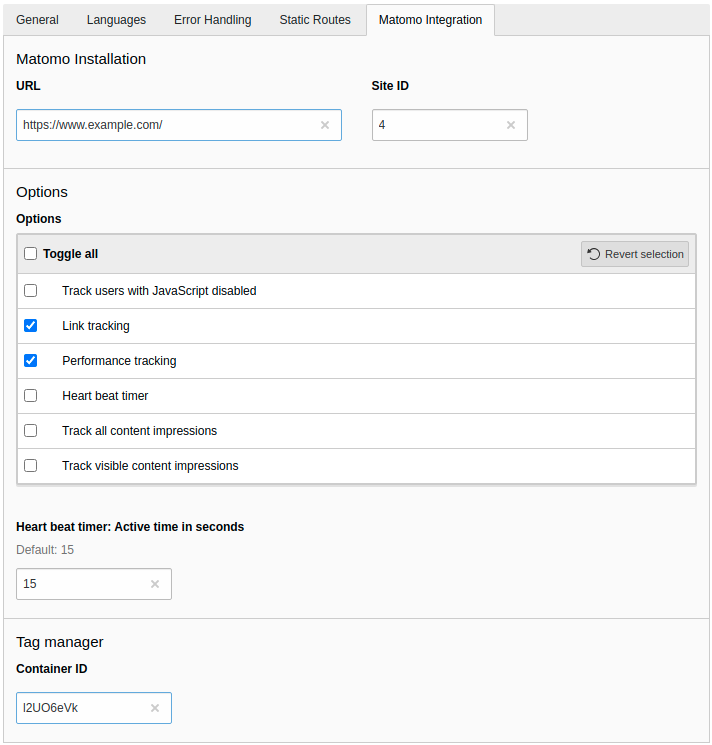
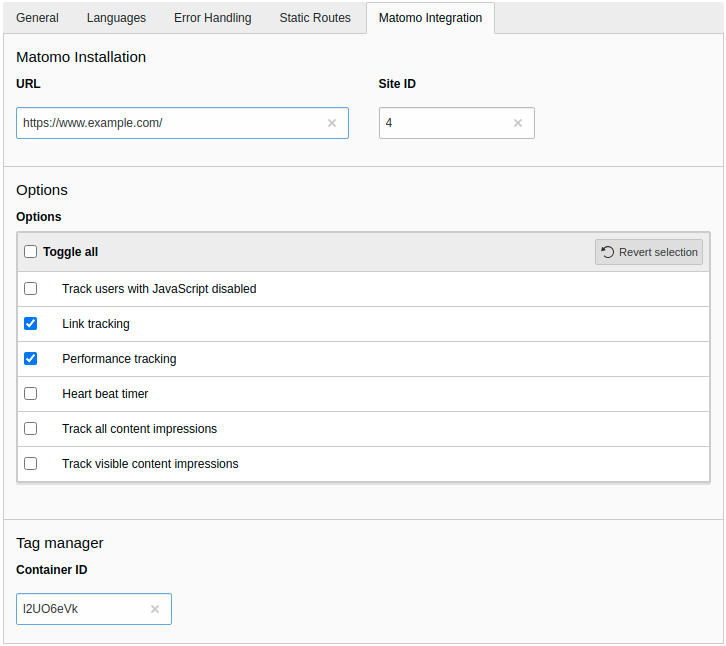
[TASK] Remove configuration for active seconds in heart beat timer
If a configuration is really necessary, a PSR-14 event can be used.

diff --git a/Tests/Unit/Code/JavaScriptTrackingCodeBuilderTest.php b/Tests/Unit/Code/JavaScriptTrackingCodeBuilderTest.php
@@ -85,21 +85,6 @@ final class JavaScriptTrackingCodeBuilderTest extends TestCase
             $expectedTrackPageViewWithDisabledPerformanceTracking . '_paq.push(["enableHeartBeatTimer"]);' . $expectedTracker,
         ];
 
-        yield 'With heart beat timer enabled and active time is 0' => [
-            \array_merge($defaultConfiguration, ['matomoIntegrationOptions' => 'heartBeatTimer'], ['matomoIntegrationHeartBeatTimerActiveTimeInSeconds' => 0]),
-            $expectedTrackPageViewWithDisabledPerformanceTracking . '_paq.push(["enableHeartBeatTimer"]);' . $expectedTracker,
-        ];
-
-        yield 'With heart beat timer enabled and active time is default value' => [
-            \array_merge($defaultConfiguration, ['matomoIntegrationOptions' => 'heartBeatTimer'], ['matomoIntegrationHeartBeatTimerActiveTimeInSeconds' => Configuration::HEART_BEAT_TIMER_DEFAULT_ACTIVE_TIME_IN_SECONDS]),
-            $expectedTrackPageViewWithDisabledPerformanceTracking . '_paq.push(["enableHeartBeatTimer"]);' . $expectedTracker,
-        ];
-
-        yield 'With heart beat timer enabled and active time is defined' => [
-            \array_merge($defaultConfiguration, ['matomoIntegrationOptions' => 'heartBeatTimer', 'matomoIntegrationHeartBeatTimerActiveTimeInSeconds' => 42]),
-            $expectedTrackPageViewWithDisabledPerformanceTracking . '_paq.push(["enableHeartBeatTimer",42]);' . $expectedTracker,
-        ];
-
         yield 'With track all content impressions enabled' => [
             \array_merge($defaultConfiguration, ['matomoIntegrationOptions' => 'trackAllContentImpressions']),
             $expectedTrackPageViewWithDisabledPerformanceTracking . '_paq.push(["trackAllContentImpressions"]);' . $expectedTracker,

diff --git a/Configuration/SiteConfiguration/Overrides/sites.php b/Configuration/SiteConfiguration/Overrides/sites.php
@@ -57,16 +57,6 @@ $GLOBALS['SiteConfiguration']['site']['columns'] += [
             'default' => 'linkTracking,performanceTracking',
         ],
     ],
-    'matomoIntegrationHeartBeatTimerActiveTimeInSeconds' => [
-        'label' => Brotkrueml\MatomoIntegration\Extension::LANGUAGE_PATH_SITECONF . ':heartBeatTimerActiveTimeInSeconds',
-        'description' => Brotkrueml\MatomoIntegration\Extension::LANGUAGE_PATH_SITECONF . ':heartBeatTimerActiveTimeInSeconds.description',
-        'config' => [
-            'type' => 'input',
-            'size' => 10,
-            'eval' => 'int',
-            'default' => Brotkrueml\MatomoIntegration\Entity\Configuration::HEART_BEAT_TIMER_DEFAULT_ACTIVE_TIME_IN_SECONDS,
-        ],
-    ],
     'matomoIntegrationTagManagerContainerId' => [
         'label' => Brotkrueml\MatomoIntegration\Extension::LANGUAGE_PATH_SITECONF . ':tagManagerContainerId',
         'config' => [
@@ -91,16 +81,10 @@ $GLOBALS['SiteConfiguration']['site']['palettes'] += [
     ],
     'matomoIntegrationOptions' => [
         'label' => Brotkrueml\MatomoIntegration\Extension::LANGUAGE_PATH_SITECONF . ':options',
-        'showitem' => '
-            matomoIntegrationOptions,
-            --linebreak--,
-            matomoIntegrationHeartBeatTimerActiveTimeInSeconds,
-        ',
+        'showitem' => 'matomoIntegrationOptions',
     ],
     'matomoIntegrationTagManager' => [
         'label' => Brotkrueml\MatomoIntegration\Extension::LANGUAGE_PATH_SITECONF . ':tagManager',
-        'showitem' => '
-            matomoIntegrationTagManagerContainerId,
-        ',
+        'showitem' => 'matomoIntegrationTagManagerContainerId',
     ],
 ];

diff --git a/Tests/Unit/Entity/ConfigurationTest.php b/Tests/Unit/Entity/ConfigurationTest.php
@@ -27,7 +27,6 @@ final class ConfigurationTest extends TestCase
         self::assertSame(0, $subject->siteId);
         self::assertFalse($subject->noScript);
         self::assertFalse($subject->heartBeatTimer);
-        self::assertSame(Configuration::HEART_BEAT_TIMER_DEFAULT_ACTIVE_TIME_IN_SECONDS, $subject->heartBeatTimerActiveTimeInSeconds);
         self::assertFalse($subject->linkTracking);
         self::assertFalse($subject->performanceTracking);
         self::assertFalse($subject->trackAllContentImpressions);
@@ -154,18 +153,6 @@ final class ConfigurationTest extends TestCase
         Configuration::createFromSiteConfiguration([
             'matomoIntegrationOptions' => 'invalid',
         ]);
-    }
-
-    /**
-     * @test
-     */
-    public function createFromSiteConfigurationWithHeartBeatTimerActiveTimeInSecondsGivenSetsInstanceValuesCorrectly(): void
-    {
-        $subject = Configuration::createFromSiteConfiguration([
-            'matomoIntegrationHeartBeatTimerActiveTimeInSeconds' => 25,
-        ]);
-
-        self::assertSame(25, $subject->heartBeatTimerActiveTimeInSeconds);
     }
 
     /**

diff --git a/Classes/Code/JavaScriptTrackingCodeBuilder.php b/Classes/Code/JavaScriptTrackingCodeBuilder.php
@@ -123,19 +123,9 @@ class JavaScriptTrackingCodeBuilder
 
     private function considerHeartBeatTimer(): void
     {
-        if (!$this->configuration->heartBeatTimer) {
-            return;
+        if ($this->configuration->heartBeatTimer) {
+            $this->trackingCodeParts[] = new MatomoMethodCall('enableHeartBeatTimer');
         }
-
-        if (
-            $this->configuration->heartBeatTimerActiveTimeInSeconds > 0 &&
-            $this->configuration->heartBeatTimerActiveTimeInSeconds !== Configuration::HEART_BEAT_TIMER_DEFAULT_ACTIVE_TIME_IN_SECONDS
-        ) {
-            $this->trackingCodeParts[] = new MatomoMethodCall('enableHeartBeatTimer', $this->configuration->heartBeatTimerActiveTimeInSeconds);
-            return;
-        }
-
-        $this->trackingCodeParts[] = new MatomoMethodCall('enableHeartBeatTimer');
     }
 
     private function considerTrackAllContentImpressions(): void

diff --git a/Classes/Entity/Configuration.php b/Classes/Entity/Configuration.php
@@ -18,8 +18,6 @@ use TYPO3\CMS\Core\Utility\GeneralUtility;
  */
 final class Configuration
 {
-    public const HEART_BEAT_TIMER_DEFAULT_ACTIVE_TIME_IN_SECONDS = 15;
-
     private const SITE_CONFIGURATION_PREFIX = 'matomoIntegration';
 
     /** @readonly */
@@ -30,8 +28,6 @@ final class Configuration
     public bool $noScript = false;
     /** @readonly */
     public bool $heartBeatTimer = false;
-    /** @readonly */
-    public int $heartBeatTimerActiveTimeInSeconds = self::HEART_BEAT_TIMER_DEFAULT_ACTIVE_TIME_IN_SECONDS;
     /** @readonly */
     public bool $linkTracking = false;
     /** @readonly */

diff --git a/Documentation/Developer/Index.rst b/Documentation/Developer/Index.rst
@@ -204,11 +204,11 @@ Example
 
       use Brotkrueml\MatomoIntegration\Event\BeforeTrackPageViewEvent;
 
-      final class TrackGoalExample
+      final class EnableHeartBeatTimerWithActiveSecondsExample
       {
          public function __invoke(RegisterAdditionalTypePropertiesEvent $event): void
          {
-            $event->addMatomoMethodCall('TrackGoal', 1);
+            $event->addMatomoMethodCall('enableHeartBeatTimer', 30);
          }
       }
 
@@ -217,10 +217,10 @@ Example
    .. code-block:: yaml
 
       services:
-         YourVendor\YourExtension\EventListener\TrackGoalExample:
+         YourVendor\YourExtension\EventListener\EnableHeartBeatTimerWithActiveSecondsExample:
             tags:
                - name: event.listener
-                 identifier: 'trackGoalExample'
+                 identifier: 'enableHeartBeatTimerWithActiveSecondsExample'
                  event: Brotkrueml\MatomoIntegration\Event\BeforeTrackPageViewEvent
 
 

diff --git a/Documentation/Configuration/Index.rst b/Documentation/Configuration/Index.rst
@@ -32,11 +32,17 @@ Integration` tab:
 .. note::
    The Matomo integration is only active if a URL and a site id is given.
 
+Installation
+------------
+
 URL
    Enter the URL of your Matomo instance (without `matomo.php` at the end).
 
 Site ID
    Enter the site ID for the website.
+
+Options
+-------
 
 Track users with JavaScript disabled
    If this option is enabled, users with JavaScript disabled are tracked.
@@ -72,13 +78,10 @@ Track visible content impressions
 
    Default: *disabled*
 
-Heart beat timer: Active time in seconds
-   If the option "Heart beat timer" is enabled, you can adjust how long a tab
-   needs to be active to be counted as viewed (in seconds).
+Tag Manager
+-----------
 
-   Default: *15*
-
-Tag Manager: Container ID
+Container ID
    If using the `Matomo Tag Manager`_ enter in this field the container ID.
    When no value is given the tag manager code is not embedded into the web
    page.
